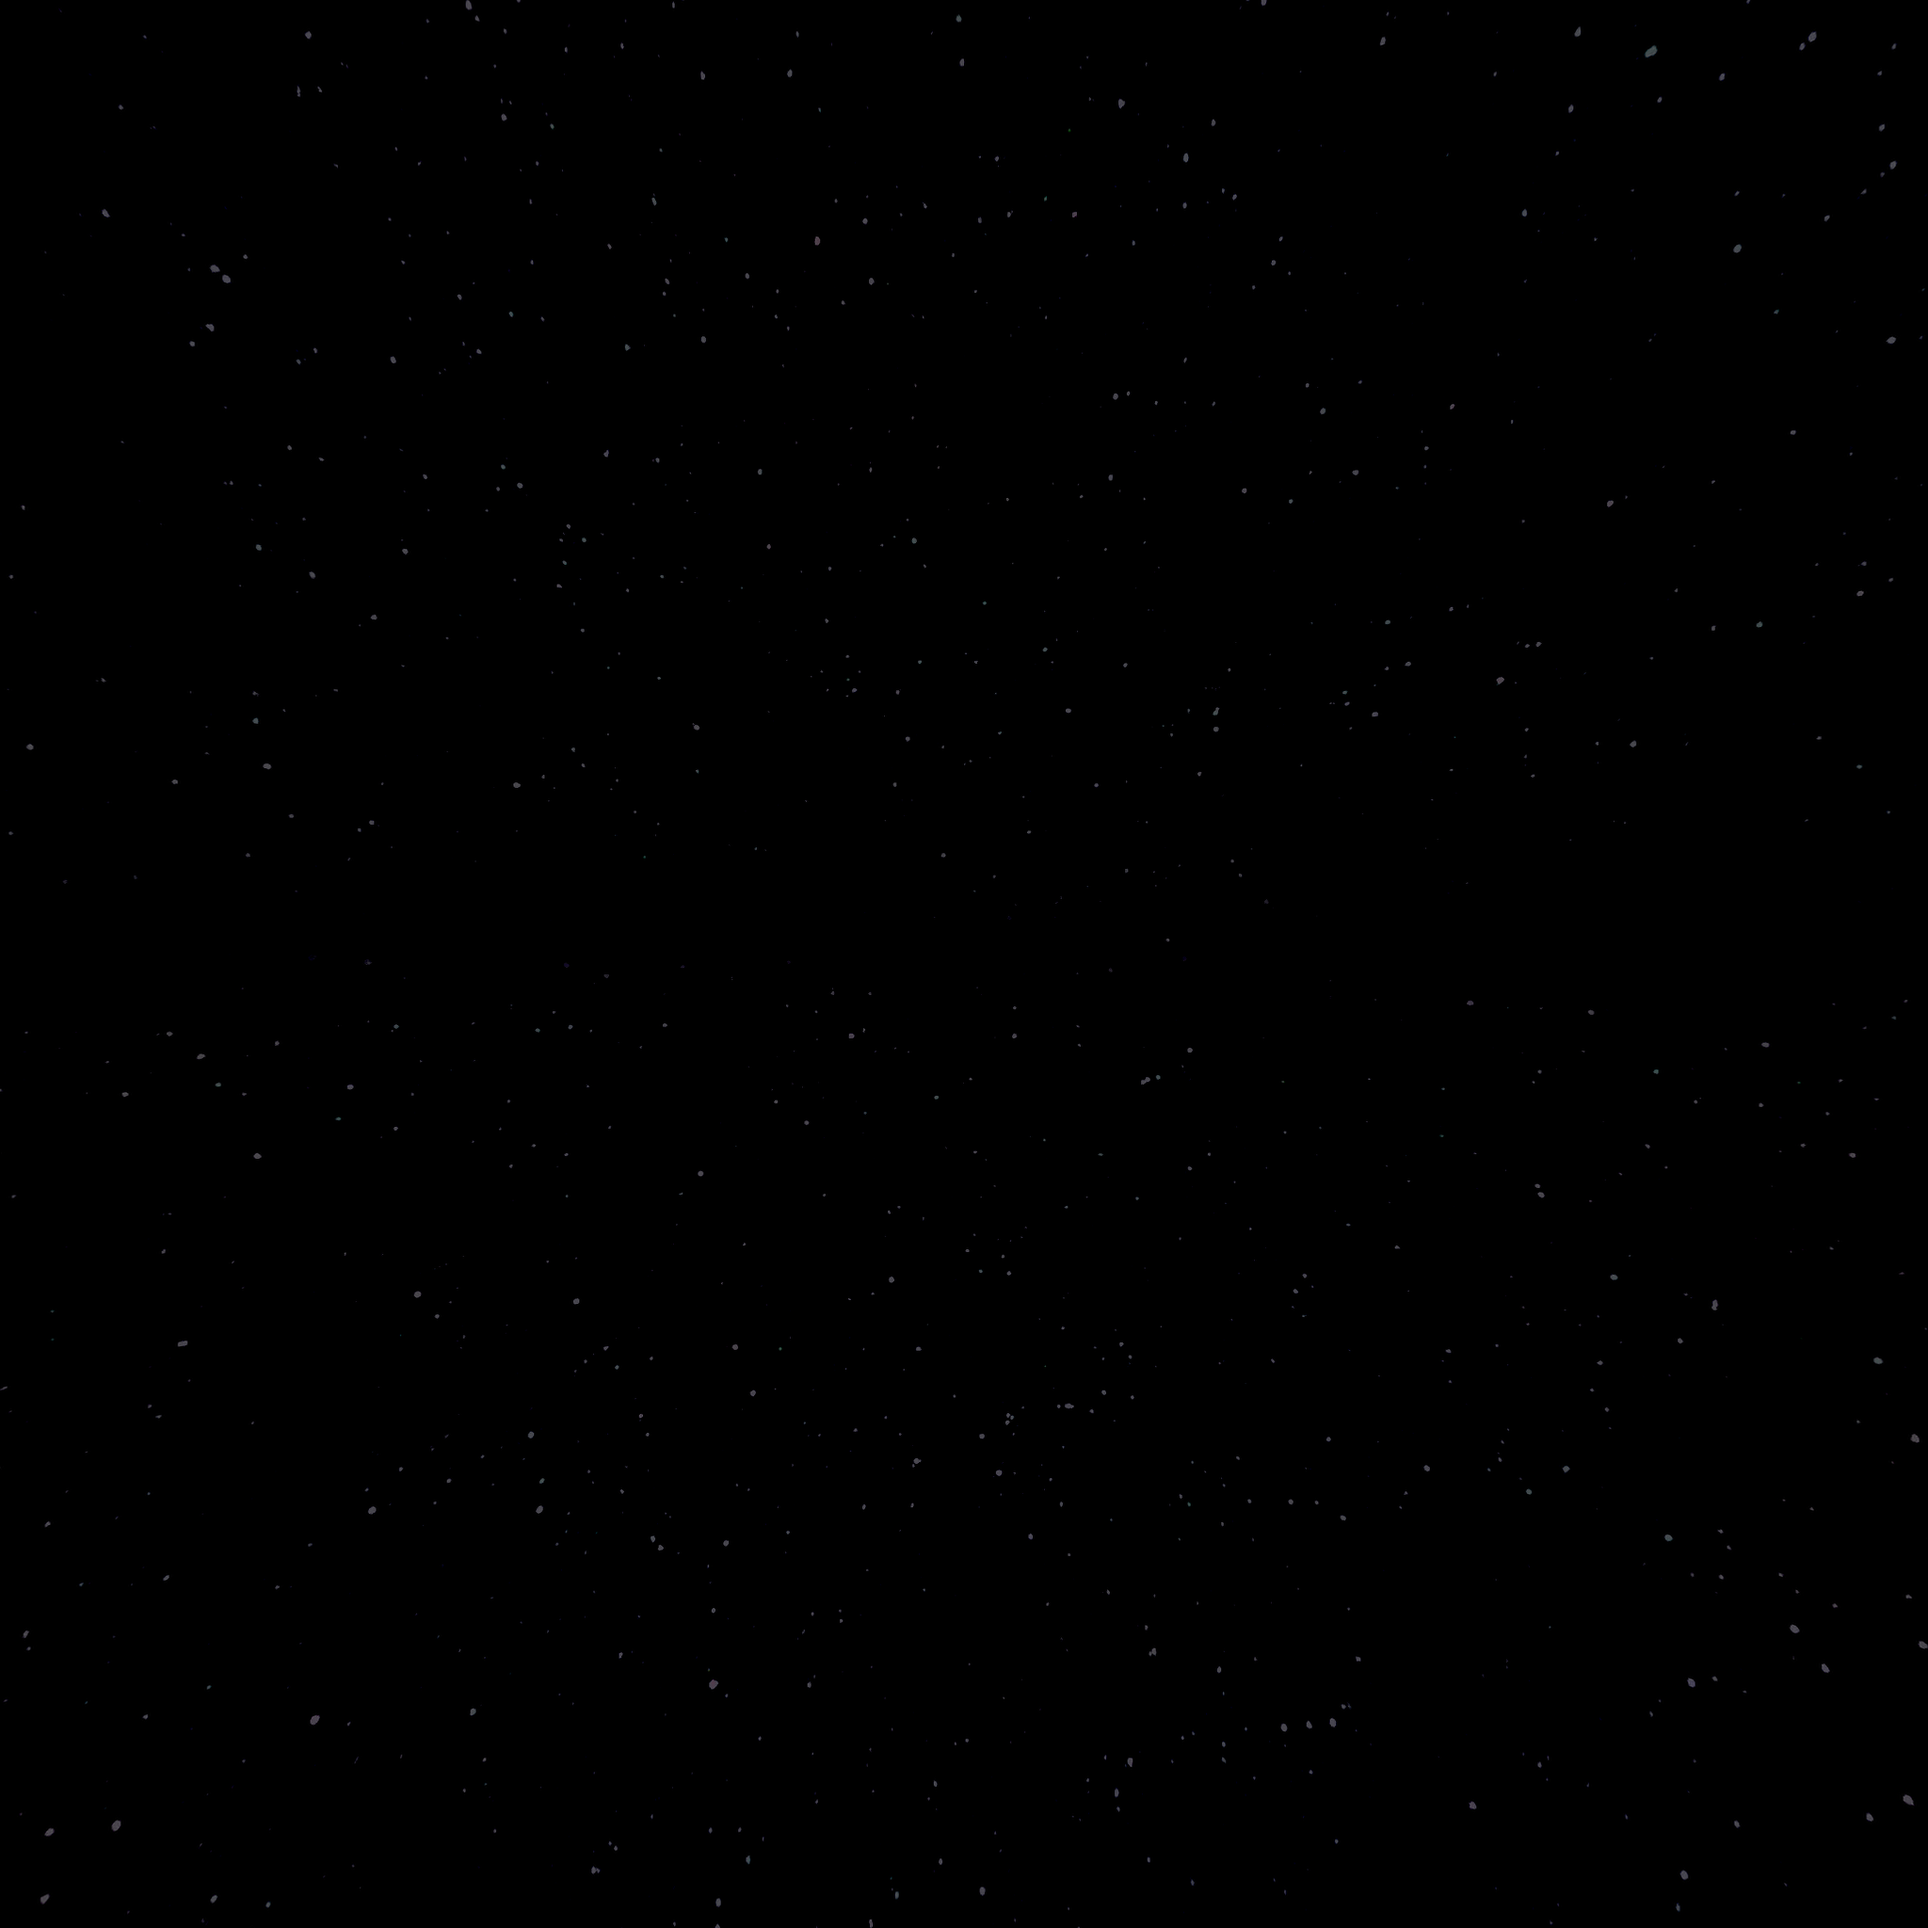
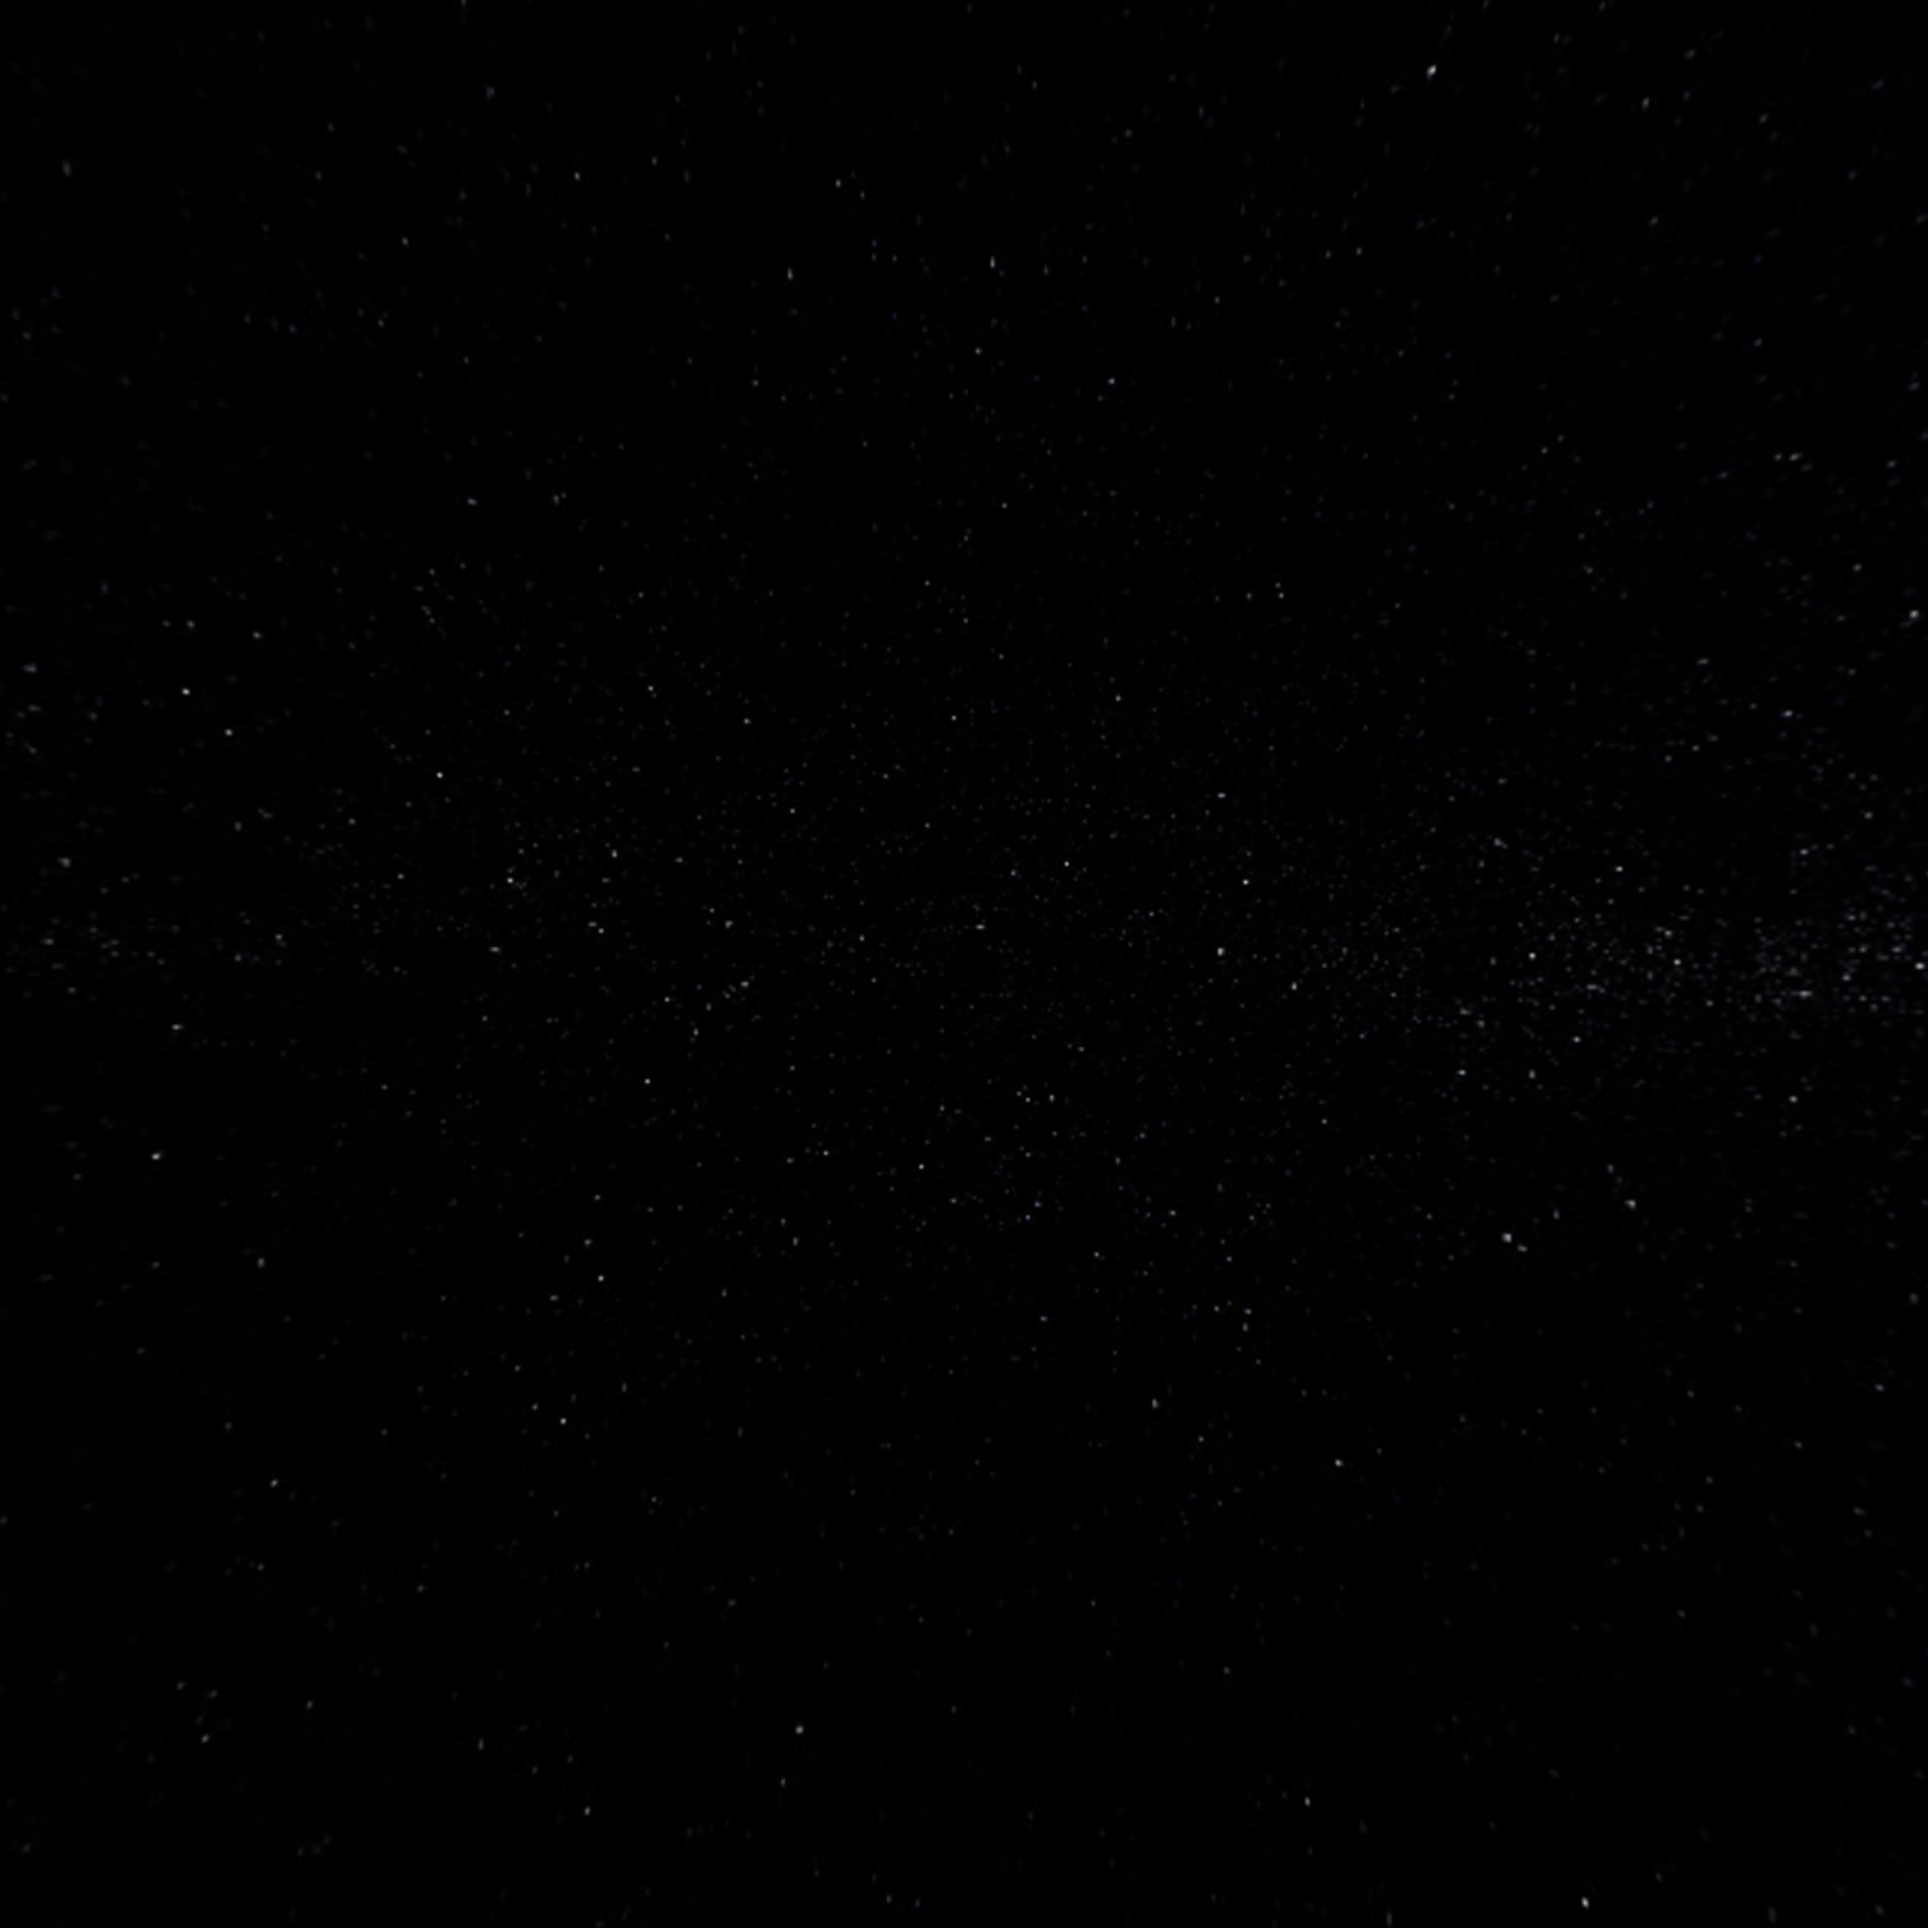
altera o cubemap

diff --git a/examples/SolarMK2/model.cpp b/examples/SolarMK2/model.cpp
@@ -165,15 +165,10 @@ void Model::loadCubeTexture(const std::string& path) {
 
   glDeleteTextures(1, &m_cubeTexture);
 
-  if (!specialMode) {
-    m_cubeTexture = abcg::opengl::loadCubemap(
-        {path + "px.png", path + "nx.png", path + "py.png",
-        path + "ny.png", path + "pz.png", path + "nz.png"});
-  } else {
-    m_cubeTexture = abcg::opengl::loadCubemap(
-        {path + "pxD.png", path + "nxD.png", path + "pyD.png",
-        path + "nyD.png", path + "pzD.png", path + "nzD.png"});
-  }
+  m_cubeTexture = abcg::opengl::loadCubemap(
+      {path + "px.png", path + "nx.png", path + "py.png",
+      path + "ny.png", path + "pz.png", path + "nz.png"});
+
 }
 
 void Model::loadFromFile(std::string_view path, bool standardize, bool isMoon) {

diff --git a/examples/SolarMK2/openglwindow.cpp b/examples/SolarMK2/openglwindow.cpp
@@ -140,10 +140,7 @@ void OpenGLWindow::paintGL() {
   glViewport(0, 0, m_viewportWidth, m_viewportHeight);
 
   // Use currently selected program
-  if (m_model.specialMode)
-    m_currentProgramIndex = 7;
-  else
-    m_currentProgramIndex = 0;
+  m_currentProgramIndex = 0;
 
   const auto program{m_programs.at(m_currentProgramIndex)};
   glUseProgram(program);
@@ -426,7 +423,6 @@ void OpenGLWindow::paintUI() {
       if (static_cast<int>(currentIndex) != m_typeIndex) {
         m_typeIndex = currentIndex;
         
-        m_model.specialMode = false;
         loadModel(getAssetsPath() + "Earth2K.obj");
         loadMoonModel(getAssetsPath() + "Moon2K.obj");
         m_model.loadCubeTexture(getAssetsPath() + "maps/cube/");

diff --git a/examples/SolarMK2/model.hpp b/examples/SolarMK2/model.hpp
@@ -39,7 +39,6 @@ class Model {
   void setupVAO(GLuint program);
 
   void move();
-  bool specialMode{false};
 
   [[nodiscard]] int getNumTriangles() const {
     return static_cast<int>(m_indices.size()) / 3;
